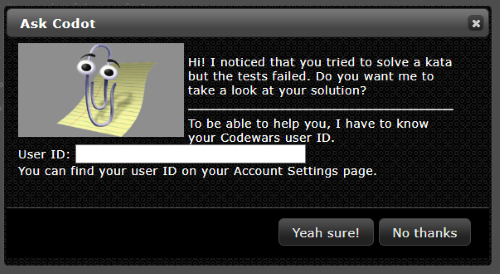
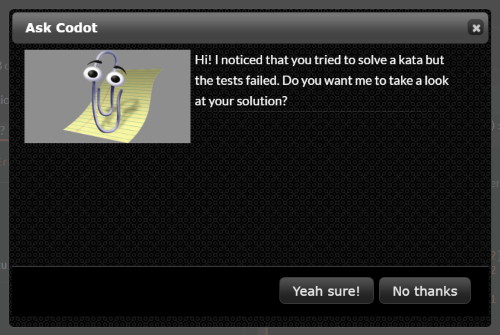
Update README to most recent changes

Changed region(s): [[0.0, 0.0, 0.99, 0.9927], [0.99, 0.7591, 1.0, 0.7883]]

diff --git a/README.md b/README.md
@@ -12,29 +12,27 @@ The Codot frontend is a userscript compatible with [Tampermonkey](https://www.ta
 
 ## How to Use
 
-Codot activates when you are training on a Codewars challenge and your tests (either sample tests or a submission attempt) end in failure.
+Codot activates when you are training on a Codewars challenge and your tests (either sample tests or a submission attempt) end in failure:
 
 ![How to Use Step 1](./images/howto-00.png)
 
-After clicking the icon, you will be presented with the Codot prompt screen:
+After clicking the message, you will be presented with the Codot prompt screen:
 
 ![How to Use Step 2](./images/howto-01.png)
 
-For the first use, you need to paste your Codewars user ID. If you're unsure how to find it, you can locate it on your Codewars [Account Settings](https://www.codewars.com/users/edit) page.
-
-After confirming your request for help, Codot will take some time to think and will then present you with an answer:
+After confirming your request for help, Codot will take some time to think. Please note that the bot's intelligence is artificial, so figuring out the answer may take some time - around 10 seconds of intensive thinking:
 
 ![How to Use Step 3](./images/howto-02.png)
 
-Please note that the bot's intelligence is artificial, so figuring out the answer may take some time - around 10 seconds of intensive thinking.
+After a short while, Codot will present you with some hopefully helpful hints:
+
+![How to Use Step 4](./images/howto-03.png)
 
 ### Limits
 
 During the initial testing phase, there is a limit of 1 query per minute and a maximum of 5 queries per hour for a single user ID. These limits may be increased after the initial testing phase.
 
 To minimize spoilers, Codot does not answer questions about kata ranked higher than 6 kyu or beta kata.
-
-Codot may become confused if used concurrently in more than one tab or browser. It's important to issue queries from the same tab that was used for the most recent test run of the training user.
 
 ## Note on Availability
 
